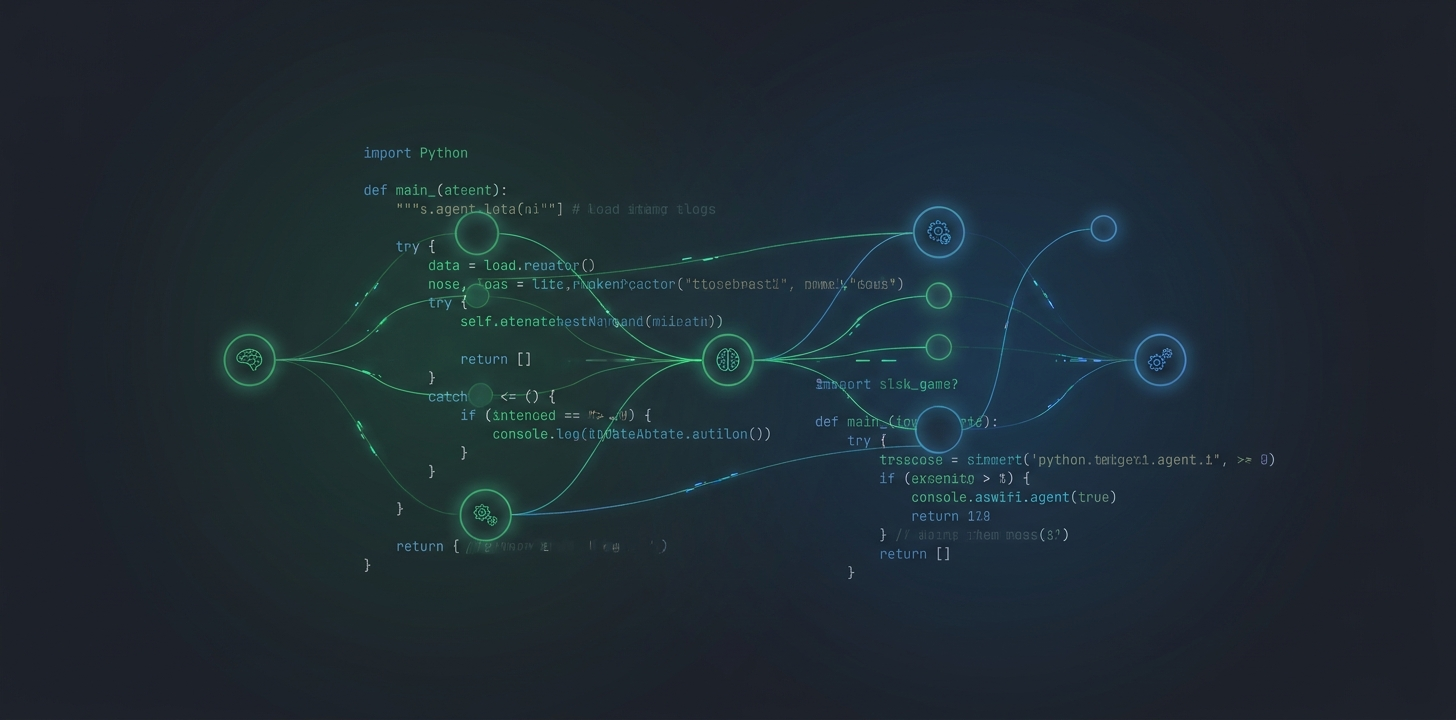
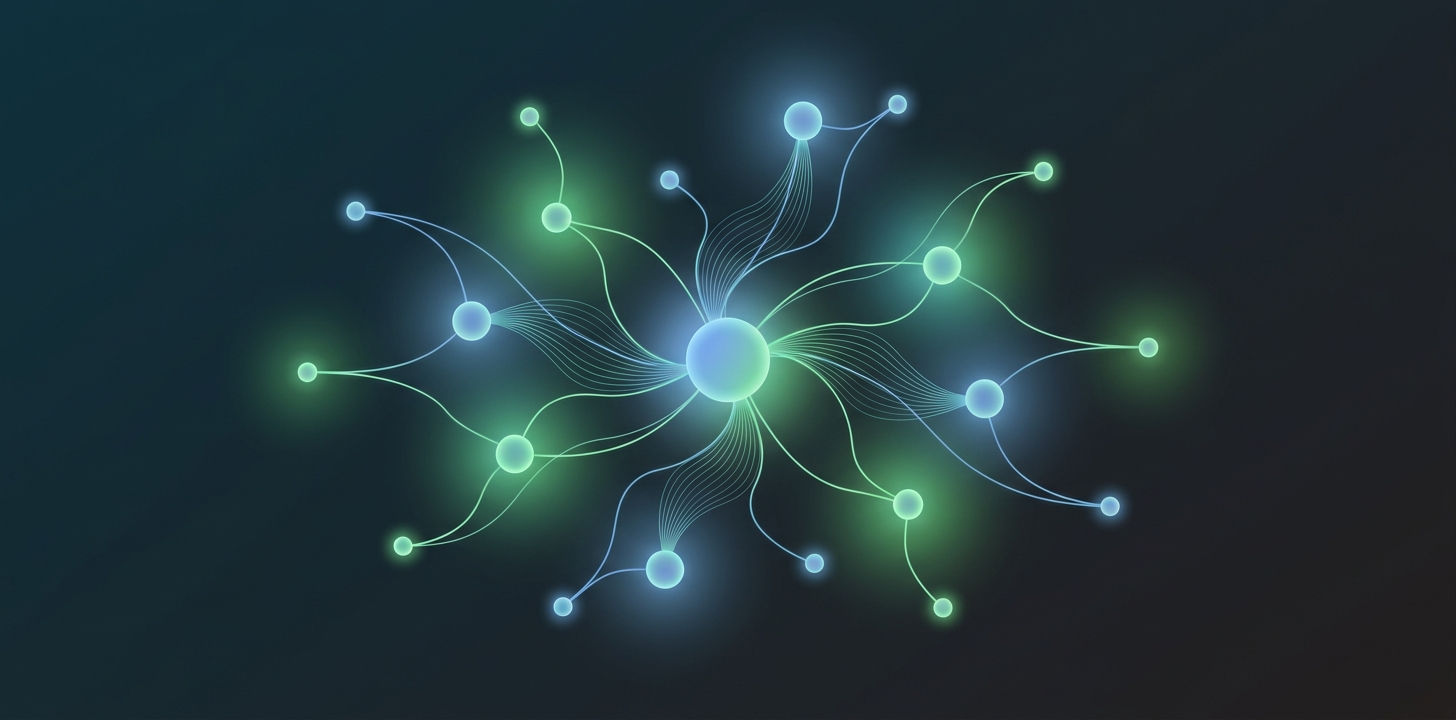
feat(quality): 신규 자동발행글 agno-python-agent-framework 표준 보강 + hero 재생성
- 참고자료 섹션 4언어 추가(공식 URL 4개: docs.agno.com, github.com/agno-agi/agno,
  pypi.org/project/agno, ai.google.dev/gemini-api/docs — 전부 resolve 검증)
- FAQ 4문항 4언어 추가(GEO/AEO): phidata 관계, output_schema vs output_model,
  mode=coordinate 팀, Agno vs PydanticAI
- ja 헤딩 현지화 글리치 수정(트레일링 'AI agent' 제거)
- hero 재생성: 가비지 코드 텍스트 → 텍스트 없는 멀티에이전트 네트워크 추상 이미지
- 빌드 202p 통과, FAQ frontmatter 정상 파싱

Changed region(s): [[0.1545, 0.0611, 0.8345, 0.8861], [0.2782, 0.1833, 0.3091, 0.2139]]

diff --git a/src/content/blog/ja/agno-python-agent-framework-gemini-guide-2026.md b/src/content/blog/ja/agno-python-agent-framework-gemini-guide-2026.md
@@ -36,6 +36,15 @@ relatedPosts:
       en: Agno for Python, Mastra for TypeScript — together they map the agent framework landscape across both languages.
       ja: PythonはAgno、TypeScriptはMastra — 両方読むとエージェントフレームワークの全体像が見えます。
       zh: Python 用 Agno，TypeScript 用 Mastra — 两篇合读可以掌握两种语言的 Agent 框架全貌。
+faq:
+  - question: "Agnoとは何で、phidataとどんな関係ですか?"
+    answer: "AgnoはLLMエージェントを作る軽量なPythonフレームワークで、もともとPhidataという名前でしたが2025年初頭にAgnoへリブランドしました。モデル不可知論(70以上のLLMを同じコードで)、マルチモーダルをデフォルト設計、マルチエージェントオーケストレーションをファーストクラスとして扱う点が核心です。この記事で検証したバージョンはv2.6.17です。"
+  - question: "output_schemaとoutput_modelの違いは何ですか?"
+    answer: "名前は似ていますが、まったく別のパラメータです。構造化出力(結果をPydanticインスタンスで受け取ること)が欲しい場合はoutput_schemaを使います。output_modelはLLMモデルのインスタンスや文字列IDを受け取るパラメータなので、そこにPydanticモデルを渡すと'ValueError: Model must be a Model instance'エラーになります。"
+  - question: "mode=\"coordinate\"でマルチエージェントチームはどう動きますか?"
+    answer: "Teamクラスにmembers=[...]でエージェントを登録し、mode=\"coordinate\"を指定すると、modelパラメータで指定したチームリーダーがタスクを分析して各メンバーに委任します。ただしv2.6.17ではcoordinateモードは並列ではなく順次実行なので、メンバーが多いとレイテンシが積み重なります。agents=ではなくmembers=である点にも注意してください。"
+  - question: "AgnoとPydanticAIのどちらを使うべきですか?"
+    answer: "素早い立ち上げとマルチツールエージェントが重要ならAgnoが有利です。100以上の内蔵ツールがAPIキーの注入だけで使え、Teamクラスで小規模なマルチエージェントも自然に組めます。一方、型安全性とツールロジックの明示的な制御が重要ならPydanticAIの方が強いです。依存関係の軽さはどちらもLangChainよりはるかに軽量です。"
 ---
 
 LangChainが重すぎると感じたことがあるなら、同じ結論に達した人はかなり多いだろう。依存関係のツリーが巨大で、抽象化レイヤーが積み重なっていくと、実際に何が起きているのか追うのが難しくなる。だからこそ最近は「LangChainなしでもエージェントが作れる」ことを証明する軽量フレームワークが増えている。
@@ -106,7 +115,7 @@ ERROR    Error from Gemini API: 404 NOT_FOUND.
 
 最初に試みたときに実際に遭遇したエラーだ。公式サイトで現在使用可能なモデルIDを先に確認するのが正しい。
 
-## WikipediaツールでリサーチエージェントをつくるAI agent
+## Wikipediaツールでリサーチエージェントをつくる
 
 ```python
 from agno.tools.wikipedia import WikipediaTools
@@ -292,6 +301,13 @@ tools = [name for _, name, _ in pkgutil.iter_modules(t.__path__)]
 **マルチツールエージェント。** 100個以上の内蔵ツールがあり、APIキーを渡すだけで使える。Slack、Gmail、Notion、GitHub、Postgresなどの実務ツールをエージェントで繋ぐ作業に強い。
 
 **単一エージェントまたは小規模チーム。** Agent 2〜3個をTeamとして束ねる程度はAgnoがすっきりしている。数十個のエージェントを複雑な依存関係でオーケストレーションする必要があるなら、LangGraphやMicrosoft AutoGenのような状態グラフベースのフレームワークの方が適している可能性がある。
+
+## 参考資料
+
+- [Agno公式ドキュメント](https://docs.agno.com) — エージェント・チーム・ワークフローの設計とAgentOSランタイムを扱う公式ドキュメント。パラメータ名で迷ったときに最初に確認する一次情報。
+- [Agno GitHubリポジトリ (agno-agi/agno)](https://github.com/agno-agi/agno) — Apache 2.0ライセンスのオープンソース。ドキュメントがコードに追いつかないときは、ここのexamples/フォルダが最新の基準になる。
+- [Agno PyPIパッケージ](https://pypi.org/project/agno/) — pipインストールの対象。この記事時点の最新バージョンはv2.6.17。
+- [Google Gemini APIドキュメント](https://ai.google.dev/gemini-api/docs) — 使用可能なモデルIDや構造化出力・関数呼び出し機能を確認できる公式ドキュメント。非推奨モデルで404が出たときに最初に見る場所。
 
 ## まとめ
 

diff --git a/src/content/blog/en/agno-python-agent-framework-gemini-guide-2026.md b/src/content/blog/en/agno-python-agent-framework-gemini-guide-2026.md
@@ -36,6 +36,15 @@ relatedPosts:
       en: Agno covers the Python side, Mastra covers TypeScript — reading both gives you a complete picture of the 2026 agent framework landscape.
       ja: PythonはAgno、TypeScriptはMastra — 両方読むとエージェントフレームワークの全体像が見えます。
       zh: Python 用 Agno，TypeScript 用 Mastra — 两篇合读可以掌握两种语言的 Agent 框架全貌。
+faq:
+  - question: "What is Agno and how does it relate to phidata?"
+    answer: "Agno is a lightweight Python framework for building LLM agents. It started life as Phidata and rebranded to Agno in early 2025. Its core selling points are being model-agnostic (70+ LLMs through the same code), multimodal by default, and treating multi-agent orchestration as a first-class citizen. The version tested in this post is v2.6.17."
+  - question: "What's the difference between output_schema and output_model?"
+    answer: "Despite the similar names, they're completely different parameters. Use output_schema when you want structured output (results returned as a Pydantic instance). output_model expects an LLM model instance or string ID, so passing a Pydantic model there raises 'ValueError: Model must be a Model instance, string, or None'."
+  - question: "How do multi-agent teams work with mode=\"coordinate\"?"
+    answer: "You register agents on the Team class via members=[...] and set mode=\"coordinate\". The team leader (the model passed to Team) analyzes the task and delegates to each member. Note that in v2.6.17, coordinate runs members sequentially rather than in parallel, so latency accumulates with more members. Also watch out: the parameter is members=, not agents=."
+  - question: "When should I use Agno vs PydanticAI?"
+    answer: "Reach for Agno when fast startup and multi-tool agents matter — its 100+ built-in tools work with just an API key, and the Team class makes small multi-agent setups natural. Reach for PydanticAI when type safety and explicit control over tool logic matter more. Both are far lighter than LangChain in terms of dependencies."
 ---
 
 If you've ever felt like LangChain was too heavy, you're not alone. The dependency tree is enormous. Abstraction layers pile up. At some point you lose track of what's actually happening underneath. That frustration has pushed a lot of people toward lighter alternatives — frameworks that prove you can build a capable agent without a hundred transitive dependencies.
@@ -302,6 +311,13 @@ Two things I didn't test today:
 **Agent memory.** Agno has `enable_agentic_memory=True` with SQLite-backed storage. Cross-session memory persistence is the piece that would make agents feel genuinely stateful rather than starting fresh each time.
 
 **MCP tool integration.** `agno.tools.mcp` exists. If Agno agents can connect to MCP servers as tool sources, that means reusing existing MCP server infrastructure without rewriting anything. Worth testing.
+
+## References
+
+- [Agno official docs](https://docs.agno.com) — the canonical documentation for agents, teams, workflows, and the AgentOS runtime. Your first stop when a parameter name confuses you.
+- [Agno GitHub repo (agno-agi/agno)](https://github.com/agno-agi/agno) — Apache 2.0 open source. When the docs lag the code, the `examples/` directory here is the up-to-date source of truth.
+- [Agno on PyPI](https://pypi.org/project/agno/) — the pip install target. The latest version as of this writing is v2.6.17.
+- [Google Gemini API docs](https://ai.google.dev/gemini-api/docs) — the official reference for available model IDs plus structured output and function calling. Check here first when a deprecated model throws a 404.
 
 ## Summary
 

diff --git a/src/content/blog/ko/agno-python-agent-framework-gemini-guide-2026.md b/src/content/blog/ko/agno-python-agent-framework-gemini-guide-2026.md
@@ -36,6 +36,15 @@ relatedPosts:
       en: Agno for Python, Mastra for TypeScript — together they map the agent framework landscape across both languages.
       ja: Python 側は Agno、TypeScript 側は Mastra — 両方を読むとエージェントフレームワークの全体像が見えてきます。
       zh: Python 用 Agno，TypeScript 用 Mastra — 两篇合读可以掌握两种语言的 Agent 框架全貌。
+faq:
+  - question: "Agno란 무엇이고 phidata와 어떤 관계인가요?"
+    answer: "Agno는 LLM 에이전트를 만드는 경량 파이썬 프레임워크로, 원래 Phidata라는 이름이었다가 2025년 초에 Agno로 리브랜딩했습니다. 모델 불가지론(70개 이상 LLM 지원), 멀티모달 기본 설계, 멀티 에이전트 오케스트레이션을 핵심으로 내세웁니다. 이 글에서 검증한 버전은 v2.6.17입니다."
+  - question: "output_schema와 output_model의 차이는 무엇인가요?"
+    answer: "이름이 헷갈리지만 둘은 완전히 다른 파라미터입니다. 구조화 출력(Pydantic 모델로 결과를 받는 것)을 원하면 output_schema를 써야 합니다. output_model은 LLM 모델 인스턴스를 받는 파라미터라서, 여기에 Pydantic 모델을 넣으면 'ValueError: Model must be a Model instance' 에러가 납니다."
+  - question: "mode=\"coordinate\"로 멀티 에이전트 팀은 어떻게 동작하나요?"
+    answer: "Team 클래스에 members=[...]로 에이전트들을 등록하고 mode=\"coordinate\"를 지정하면, model 파라미터로 지정한 팀 리더가 태스크를 분석해 각 멤버에게 위임합니다. 다만 v2.6.17 기준 coordinate 모드는 병렬이 아니라 순차 실행이라, 멤버가 많으면 레이턴시가 누적됩니다. agents=가 아니라 members=인 점에 주의하세요."
+  - question: "Agno와 PydanticAI 중 무엇을 써야 하나요?"
+    answer: "빠른 시작과 멀티 도구 에이전트가 중요하면 Agno가 유리합니다. 100개 넘는 내장 도구를 API 키 주입만으로 쓸 수 있고 Team 클래스로 멀티 에이전트도 자연스럽습니다. 반면 타입 안전성과 도구 로직의 명시적 제어가 중요하면 PydanticAI가 더 강합니다. 의존성 무게는 둘 다 LangChain보다 가볍습니다."
 ---
 
 LangChain이 너무 무겁다고 느낀 적이 있다면, 아마 비슷한 결론에 도달한 사람이 꽤 많을 것이다. 의존성 트리가 거대하고, 추상화 계층이 쌓이다 보면 실제로 무슨 일이 벌어지는지 추적하기 어려워진다. 그래서 요즘은 "LangChain 없이도 에이전트를 만들 수 있다"는 걸 증명하는 가벼운 프레임워크들이 늘고 있다.
@@ -337,6 +346,13 @@ tools = [name for _, name, _ in pkgutil.iter_modules(t.__path__)]
 하나는 Agno의 Agent Memory 시스템이다. `enable_agentic_memory=True`와 함께 SQLite 기반 메모리를 에이전트에 붙이는 기능이 있는데, 멀티 세션에 걸쳐 정보를 유지하는 에이전트를 만들 때 핵심이 될 것 같다. 특히 사용자 선호나 이전 대화 맥락을 기억해야 하는 챗봇 류 에이전트에서 유용할 것 같다.
 
 다른 하나는 MCP 도구 통합이다. `agno.tools.mcp`가 있다. Agno 에이전트가 MCP 서버에 연결해서 도구를 호출하는 구성이 가능하다면, 기존에 만들어둔 MCP 서버를 그대로 재사용할 수 있다는 의미다. 현재 진행 중인 프로젝트에서 MCP 서버를 여러 개 운용하고 있는데, 그 위에 Agno 에이전트를 얹을 수 있다면 통합 비용이 많이 줄어든다. 이건 실제로 해보고 싶다.
+
+## 참고자료
+
+- [Agno 공식 문서](https://docs.agno.com) — 에이전트·팀·워크플로우 설계와 AgentOS 런타임을 다루는 공식 문서. 파라미터 이름이 헷갈릴 때 1차 출처로 확인할 곳.
+- [Agno GitHub 저장소 (agno-agi/agno)](https://github.com/agno-agi/agno) — Apache 2.0 라이선스 오픈소스. 문서가 코드를 못 따라갈 때는 여기 examples/ 폴더가 최신 기준이다.
+- [Agno PyPI 패키지](https://pypi.org/project/agno/) — pip 설치 대상. 이 글 기준 최신 버전은 v2.6.17이다.
+- [Google Gemini API 문서](https://ai.google.dev/gemini-api/docs) — 사용 가능한 모델 ID와 구조화 출력·함수 호출 기능을 확인할 공식 문서. deprecated 모델 때문에 404가 날 때 먼저 볼 곳.
 
 ## 정리
 

diff --git a/src/content/blog/zh/agno-python-agent-framework-gemini-guide-2026.md b/src/content/blog/zh/agno-python-agent-framework-gemini-guide-2026.md
@@ -36,6 +36,15 @@ relatedPosts:
       en: Agno for Python, Mastra for TypeScript — together they map the agent framework landscape across both languages.
       ja: PythonはAgno、TypeScriptはMastra — 両方でエージェントフレームワークの全体像が見えます。
       zh: Python 用 Agno，TypeScript 用 Mastra — 合读两篇可以全面了解 2026 年两种语言的 Agent 框架生态。
+faq:
+  - question: "Agno 是什么？它与 phidata 是什么关系？"
+    answer: "Agno 是一个用于构建 LLM Agent 的轻量级 Python 框架，前身是 Phidata，于 2025 年初更名为 Agno。其核心卖点是多模型支持（同一套代码接入 70 多个 LLM）、默认多模态设计，以及把多 Agent 编排作为一等公民。本文验证的版本是 v2.6.17。"
+  - question: "output_schema 和 output_model 有什么区别？"
+    answer: "尽管名字相似，它们是完全不同的两个参数。需要结构化输出（以 Pydantic 实例形式返回结果）时应使用 output_schema。output_model 接收的是 LLM 模型实例或字符串 ID，把 Pydantic 模型传给它会报 'ValueError: Model must be a Model instance' 错误。"
+  - question: "mode=\"coordinate\" 下多 Agent 团队是如何运作的？"
+    answer: "在 Team 类上用 members=[...] 注册各个 Agent，并设置 mode=\"coordinate\"，传入 Team 的 model 作为团队领导，会分析任务并委派给各成员。但在 v2.6.17 中，coordinate 模式是顺序执行而非并行，成员越多延迟越高。还要注意参数是 members=，不是 agents=。"
+  - question: "应该用 Agno 还是 PydanticAI？"
+    answer: "如果看重快速上手和多工具 Agent，Agno 更有优势——100 多个内置工具只需注入 API Key 即可使用，Team 类也让小规模多 Agent 编排很自然。如果更看重类型安全和对工具逻辑的显式控制，PydanticAI 更强。在依赖体量上，两者都比 LangChain 轻得多。"
 ---
 
 如果你曾经觉得 LangChain 太重了，那你的感受并不孤独。依赖树庞大，抽象层层叠加，最终很难追踪底层究竟发生了什么。正是这种挫败感推动了一批更轻量替代方案的崛起——那些证明"不需要百来个传递依赖也能构建强大 Agent"的框架。
@@ -294,6 +303,13 @@ tools = [name for _, name, _ in pkgutil.iter_modules(t.__path__)]
 **小规模 Agent 团队（2〜4 个）。** Agno 的 `Team` 类处理小型协调任务很干净。一旦需要数十个 Agent 组成复杂依赖图，LangGraph 或 Microsoft AutoGen 这类状态图框架能提供更精细的控制。
 
 不适合使用 Agno 的场景：实时流式响应 UI、需要精细错误处理和重试保障的生产工作流、需要完整审计每步 Agent 决策的系统。
+
+## 参考资料
+
+- [Agno 官方文档](https://docs.agno.com) — 涵盖 Agent、Team、Workflow 设计以及 AgentOS 运行时的官方文档。参数命名拿不准时，这里是首选的一手来源。
+- [Agno GitHub 仓库 (agno-agi/agno)](https://github.com/agno-agi/agno) — Apache 2.0 许可的开源项目。当文档落后于代码时，这里的 examples/ 目录才是最新基准。
+- [Agno PyPI 包](https://pypi.org/project/agno/) — pip 安装的对象。截至本文撰写，最新版本为 v2.6.17。
+- [Google Gemini API 文档](https://ai.google.dev/gemini-api/docs) — 查询可用模型 ID 以及结构化输出、函数调用功能的官方文档。遇到废弃模型导致的 404 时，先到这里确认。
 
 ## 总结
 